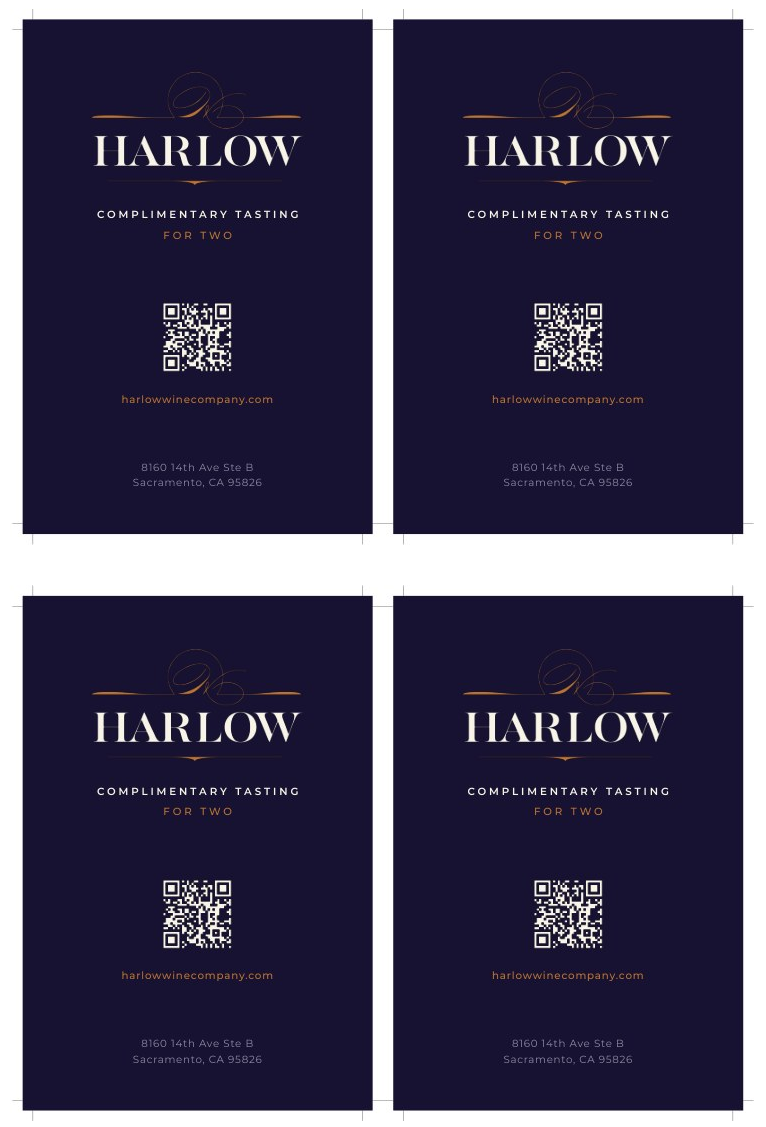
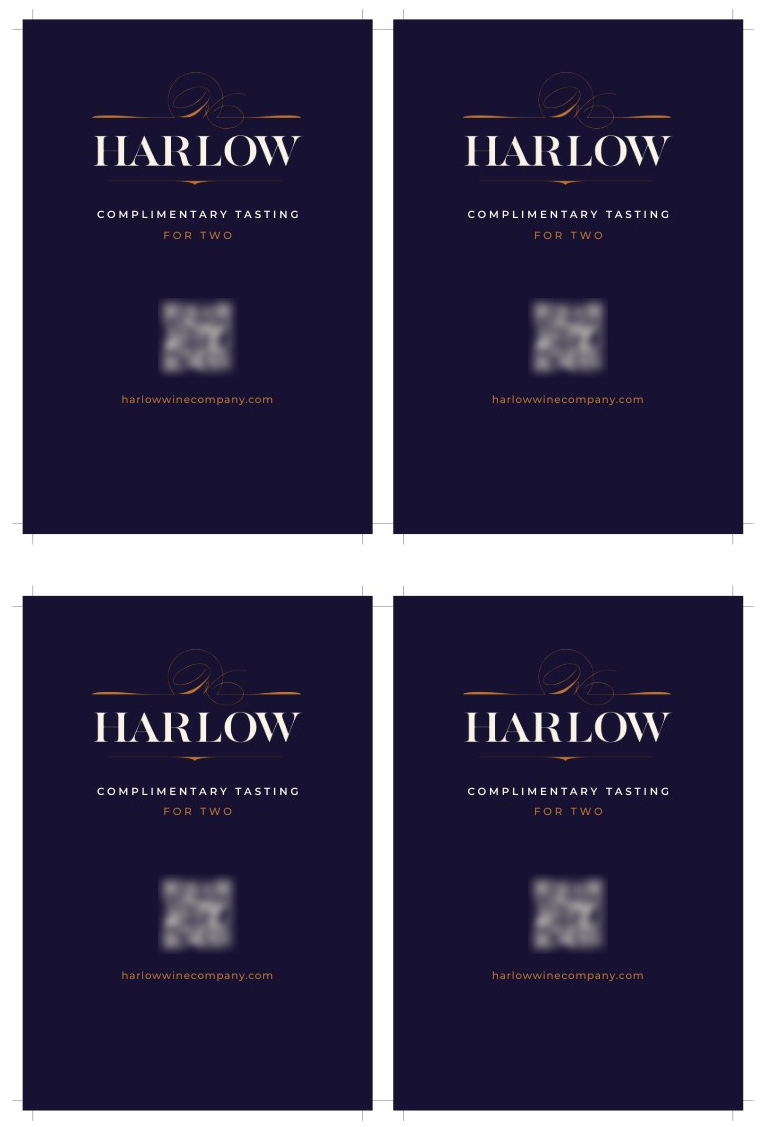
Cokpit hero capture, viewer brochure pages and card backs, QR and address cleared

diff --git a/src/lib/media.ts b/src/lib/media.ts
@@ -9,6 +9,15 @@ import kumuBack from '../assets/print/kumu-hula-nohea-macugay-back.png';
 import kumu from '../assets/print/kumu-hula-nohea-macugay.png';
 import quantum from '../assets/print/quantum-submetering.png';
 import spareRoom from '../assets/print/the-spare-room.png';
+import cokpitHero from '../assets/hero/cokpit-hero.png';
+import compassionPage1 from '../assets/print/compassion-care-transport-page-1.png';
+import compassionPage2 from '../assets/print/compassion-care-transport-page-2.png';
+import compassionPage3 from '../assets/print/compassion-care-transport-page-3.png';
+import compassionPage4 from '../assets/print/compassion-care-transport-page-4.png';
+import goodGroundFront from '../assets/print/good-ground-and-co-front.png';
+import harlowCardBack from '../assets/print/harlow-wine-co-card-back.png';
+import harlowCardFront from '../assets/print/harlow-wine-co-card-front.png';
+import quantumBack from '../assets/print/quantum-submetering-back.png';
 
 export type ClearedMedia = {
   source: string;
@@ -34,6 +43,15 @@ const approvedAssets: Readonly<Record<string, ImageMetadata>> = {
   'src/assets/print/kumu-hula-nohea-macugay.png': kumu,
   'src/assets/print/quantum-submetering.png': quantum,
   'src/assets/print/the-spare-room.png': spareRoom,
+  'src/assets/hero/cokpit-hero.png': cokpitHero,
+  'src/assets/print/compassion-care-transport-page-1.png': compassionPage1,
+  'src/assets/print/compassion-care-transport-page-2.png': compassionPage2,
+  'src/assets/print/compassion-care-transport-page-3.png': compassionPage3,
+  'src/assets/print/compassion-care-transport-page-4.png': compassionPage4,
+  'src/assets/print/good-ground-and-co-front.png': goodGroundFront,
+  'src/assets/print/harlow-wine-co-card-back.png': harlowCardBack,
+  'src/assets/print/harlow-wine-co-card-front.png': harlowCardFront,
+  'src/assets/print/quantum-submetering-back.png': quantumBack,
 };
 
 export function resolveApprovedMedia(media: ClearedMedia): ImageMetadata {

diff --git a/src/content/print/05-compassion-care-transport.md b/src/content/print/05-compassion-care-transport.md
@@ -25,14 +25,47 @@ viewer:
   kind: brochure
   faces:
   - image:
-      source: src/assets/print/compassion-care-transport.png
-      filename: compassion-care-transport.png
-      width: 840
-      height: 561
-      alt: Compassion Care brochure cover crop with a purple heart and house symbol
+      source: src/assets/print/compassion-care-transport-page-1.png
+      filename: compassion-care-transport-page-1.png
+      width: 1100
+      height: 1700
+      alt: Brochure cover with a blurred photo, the heart and house logo and the company name
       focalPoint: { x: 50, y: 50 }
       sourceNote: privacy-reviewed export
       clearance: approved
-      clearanceDate: '2026-10-08'
-    alt: Compassion Care brochure cover crop with a purple heart and house symbol
+      clearanceDate: '2026-10-09'
+    alt: Brochure cover with a blurred photo, the heart and house logo and the company name
+  - image:
+      source: src/assets/print/compassion-care-transport-page-2.png
+      filename: compassion-care-transport-page-2.png
+      width: 1100
+      height: 1700
+      alt: Inside left page listing compassion, commitment and connection
+      focalPoint: { x: 50, y: 50 }
+      sourceNote: privacy-reviewed export
+      clearance: approved
+      clearanceDate: '2026-10-09'
+    alt: Inside left page listing compassion, commitment and connection
+  - image:
+      source: src/assets/print/compassion-care-transport-page-3.png
+      filename: compassion-care-transport-page-3.png
+      width: 1100
+      height: 1700
+      alt: Inside right page listing five numbered services
+      focalPoint: { x: 50, y: 50 }
+      sourceNote: privacy-reviewed export
+      clearance: approved
+      clearanceDate: '2026-10-09'
+    alt: Inside right page listing five numbered services
+  - image:
+      source: src/assets/print/compassion-care-transport-page-4.png
+      filename: compassion-care-transport-page-4.png
+      width: 1100
+      height: 1700
+      alt: Back page with a large headline and blurred photos
+      focalPoint: { x: 50, y: 50 }
+      sourceNote: privacy-reviewed export
+      clearance: approved
+      clearanceDate: '2026-10-09'
+    alt: Back page with a large headline and blurred photos
 ---

diff --git a/src/content/print/01-harlow-wine-co.md b/src/content/print/01-harlow-wine-co.md
@@ -32,28 +32,28 @@ secondaryMedia:
   clearance: approved
   clearanceDate: '2026-10-08'
 viewer:
-  kind: sheet
+  kind: card
   faces:
   - image:
-      source: src/assets/print/harlow-wine-co.png
-      filename: harlow-wine-co.png
+      source: src/assets/print/harlow-wine-co-card-front.png
+      filename: harlow-wine-co-card-front.png
       width: 1400
-      height: 840
-      alt: Harlow Wine Co logo lockup in pale lettering and copper flourishes on navy
+      height: 800
+      alt: Navy business card front with the Harlow wordmark and a copper flourish
       focalPoint: { x: 50, y: 50 }
       sourceNote: privacy-reviewed export
       clearance: approved
-      clearanceDate: '2026-10-08'
-    alt: Harlow Wine Co logo lockup in pale lettering and copper flourishes on navy
+      clearanceDate: '2026-10-09'
+    alt: Navy business card front with the Harlow wordmark and a copper flourish
   - image:
-      source: src/assets/print/harlow-wine-co-tasting.png
-      filename: harlow-wine-co-tasting.png
-      width: 766
-      height: 1127
-      alt: Four Harlow tasting cards arranged on a sheet, each with a logo and QR code
+      source: src/assets/print/harlow-wine-co-card-back.png
+      filename: harlow-wine-co-card-back.png
+      width: 1400
+      height: 800
+      alt: Card back with the company name, contact lines replaced by bars
       focalPoint: { x: 50, y: 50 }
       sourceNote: privacy-reviewed export
       clearance: approved
-      clearanceDate: '2026-10-08'
-    alt: Four Harlow tasting cards arranged on a sheet, each with a logo and QR code
+      clearanceDate: '2026-10-09'
+    alt: Card back with the company name, contact lines replaced by bars
 ---

diff --git a/src/content/print/06-good-ground-and-co.md b/src/content/print/06-good-ground-and-co.md
@@ -25,14 +25,25 @@ viewer:
   kind: card
   faces:
   - image:
+      source: src/assets/print/good-ground-and-co-front.png
+      filename: good-ground-and-co-front.png
+      width: 1400
+      height: 801
+      alt: Black card front with the company name and a service list, name and phone replaced by bars
+      focalPoint: { x: 50, y: 50 }
+      sourceNote: privacy-reviewed export
+      clearance: approved
+      clearanceDate: '2026-10-09'
+    alt: Black card front with the company name and a service list, name and phone replaced by bars
+  - image:
       source: src/assets/print/good-ground-and-co.png
       filename: good-ground-and-co.png
       width: 1400
       height: 800
-      alt: Good Ground services side of a card with green headings over a garden photograph
+      alt: Card back listing yard and roofing services on a dark green ground
       focalPoint: { x: 50, y: 50 }
       sourceNote: privacy-reviewed export
       clearance: approved
-      clearanceDate: '2026-10-08'
-    alt: Good Ground services side of a card with green headings over a garden photograph
+      clearanceDate: '2026-10-09'
+    alt: Card back listing yard and roofing services on a dark green ground
 ---

diff --git a/src/content/print/08-quantum-submetering.md b/src/content/print/08-quantum-submetering.md
@@ -29,10 +29,21 @@ viewer:
       filename: quantum-submetering.png
       width: 1751
       height: 1001
-      alt: Quantum Submetering card front with a white bolt and wave symbol on blue
+      alt: Blue business card front with a lightning bolt logo
       focalPoint: { x: 50, y: 50 }
       sourceNote: privacy-reviewed export
       clearance: approved
-      clearanceDate: '2026-10-08'
-    alt: Quantum Submetering card front with a white bolt and wave symbol on blue
+      clearanceDate: '2026-10-09'
+    alt: Blue business card front with a lightning bolt logo
+  - image:
+      source: src/assets/print/quantum-submetering-back.png
+      filename: quantum-submetering-back.png
+      width: 1400
+      height: 800
+      alt: Card back with contact lines replaced by plain bars
+      focalPoint: { x: 50, y: 50 }
+      sourceNote: privacy-reviewed export
+      clearance: approved
+      clearanceDate: '2026-10-09'
+    alt: Card back with contact lines replaced by plain bars
 ---

diff --git a/src/content/work/01-cokpit.md b/src/content/work/01-cokpit.md
@@ -8,4 +8,14 @@ status: In progress
 summary: A pre-launch desktop app for running and supervising AI coding agent sessions side by side in one workspace.
 proofPolicy: Show only a current product screen cleared of private data.
 publicUrl: https://cokpit.dev
+media:
+  source: src/assets/hero/cokpit-hero.png
+  filename: cokpit-hero.png
+  width: 2560
+  height: 1369
+  alt: Cokpit canvas view with two coding agents, a terminal running tests and a code diff side by side
+  focalPoint: { x: 30, y: 30 }
+  sourceNote: privacy-reviewed export
+  clearance: approved
+  clearanceDate: '2026-10-09'
 ---
